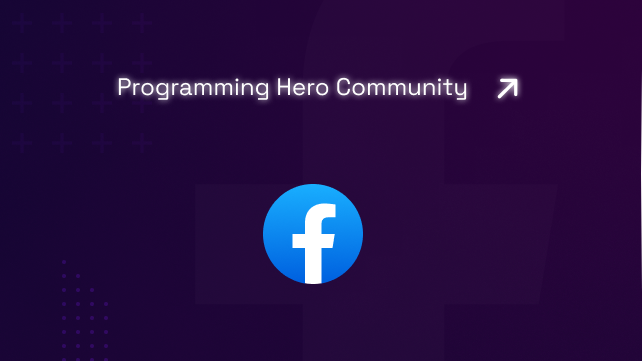
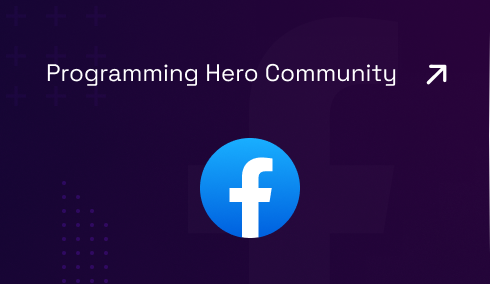
v2

diff --git a/README.md b/README.md
@@ -87,7 +87,7 @@
 
 ## :globe_with_meridians: Our community_
 
-***<p align="center"> [<img height="180" src="https://raw.githubusercontent.com/ProgrammingHero1/ProgrammingHero1/main/image/community-fb.png">](https://www.facebook.com/groups/programmingherocommunity/)[<img height="180" src="https://raw.githubusercontent.com/ProgrammingHero1/ProgrammingHero1/main/image/community-yt.png">](https://www.youtube.com/@ProgrammingHeroCommunity) </p>***
+***<p align="center"> [<img width="150" src="https://raw.githubusercontent.com/ProgrammingHero1/ProgrammingHero1/main/image/community-fb.png">](https://www.facebook.com/groups/programmingherocommunity/)[<img  width="150" src="https://raw.githubusercontent.com/ProgrammingHero1/ProgrammingHero1/main/image/community-yt.png">](https://www.youtube.com/@ProgrammingHeroCommunity) </p>***
 
 <br/>
 <br/>
